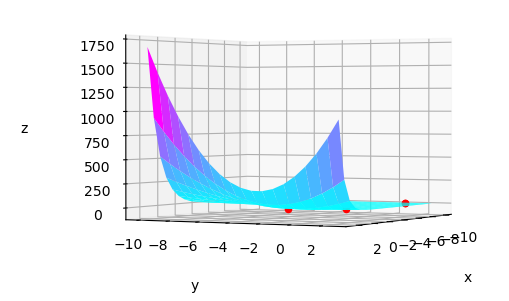
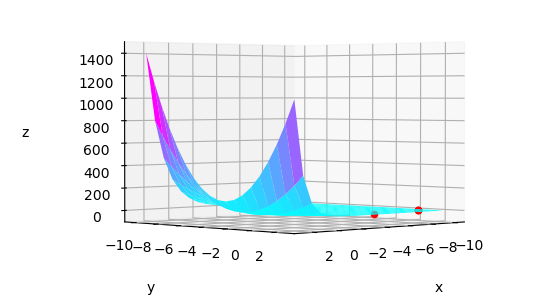
Now the second one working

diff --git a/project-2/main-copy.py b/project-2/main-copy.py
@@ -1,16 +1,8 @@
 from header import *  # IMPORTING HEADER FILE
 import matplotlib.pyplot as plt
-import gpkit
 import cvxpy
-import gpkit.nomials
 import math
 
-def ceiling(x):
-    decimal=x%1 #get fractional part of input
-    if decimal > 0: #round up if fractional part >0
-        return (x-decimal)+1
-    else: #input was an integer => no rounding
-        return x
 
 def calc_n_d(d):
     n_d = (2 * d - 1) * C
@@ -108,39 +100,36 @@ if __name__ == "__main__":
         plt.show()
 
 # PART 2 #
-#x = cvxpy.Variable(1, name='x')
-x = gpkit.Variable("x")
+x = cvxpy.Variable(1, name='x')
 
 alpha1, alpha2, alpha3 = calc_alphas(1)
 beta1, beta2 = calc_betas(D)
 
-Tt_x = (x / (Tps + Tal)) * ((Tps + Tal) / 2) + Tack + Tdata
+Tt_x = cvxpy.ceil(x[0] / (Tps + Tal)) * ((Tps + Tal) / 2) + Tack + Tdata
 E1_tx = (Tcs + Tal + Tt_x) * calc_f_out(1)
 
 prob1_solves = []
 np_L = np.linspace(100, 5000)
 
 for l_item in np_L:
-    obj_fun1 = alpha1/x + alpha2 * x + alpha3
-    cons1 = beta1 * x + beta2
-    cons2 = x
+    obj_fun1 = alpha1 * cvxpy.power(x[0], -1) + alpha2 * x[0] + alpha3
+    cons1 = beta1 * x[0] + beta2
+    cons2 = x[0]
     cons3 = abs(calc_i_d(0)) * E1_tx
     constraints = [cons1 <= l_item, cons2 >= Tw_min, cons3 <= (1 / 4)]
-    prob1 = gpkit.Model(obj_fun1, constraints)
-    solution = prob1.solve()
-    prob1_solves.append(solution["cost"])
+    prob1 = cvxpy.Problem(cvxpy.Minimize(obj_fun1), constraints)
+    prob1_solves.append(prob1.solve(verbose=False))
     #print("solve", prob1.solve())  # Returns the optimal value.
 
 print(prob1_solves)
 
 plt.plot(np_L, prob1_solves, color="blue")
-
 plt.xlabel('L_max')
 plt.ylabel('Minimization')
 plt.title("Problem 1 to optimize")
 plt.show()
 print("The best solution of Tw in Energy function is", min(prob1_solves))
-E_worst = max(prob1_solves)
+L_worst = prob1_solves[0]
 #print(E_worst)
 #print("Te worst solution of Tw in Energy function is", E_worst)
 
@@ -148,14 +137,13 @@ prob2_solves = []
 np_E = np.linspace(0.5, 5)
 
 for e_item in np_E:
-    obj_fun2 = beta1 * x + beta2
-    cons1 = alpha1 / x + alpha2 * x + alpha3
-    cons2 = x
+    obj_fun2 = beta1 * x[0] + beta2
+    cons1 = alpha1 * cvxpy.power(x[0], -1) + alpha2 * x[0] + alpha3
+    cons2 = x[0]
     cons3 = abs(calc_i_d(0)) * E1_tx
     constraints = [cons1 <= e_item, cons2 >= Tw_min, cons3 <= (1 / 4)]
-    prob2 = gpkit.Model(obj_fun2, constraints)
-    solution = prob2.solve()
-    prob2_solves.append(solution["cost"])
+    prob2 = cvxpy.Problem(cvxpy.Minimize(obj_fun2), constraints)
+    prob2_solves.append(prob2.solve())
     # print("solve", prob2.solve())  # Returns the optimal value.
 
 print(prob2_solves)
@@ -167,8 +155,9 @@ plt.show()
 #print("The best solution of Tw in Delay function is", min(prob2_solves))
 #E_worst = prob1_solves[-1]
 #print("Te worst solution of Tw in Delay function is", L_worst)
-L_worst = max(prob2_solves)
 
+E_worst = max(energy_fun(np_E))
+L_worst = min(delay_fun(np_L))
 
 plt.plot(energy_fun(np_E), delay_fun(np_L), color="green")
 
